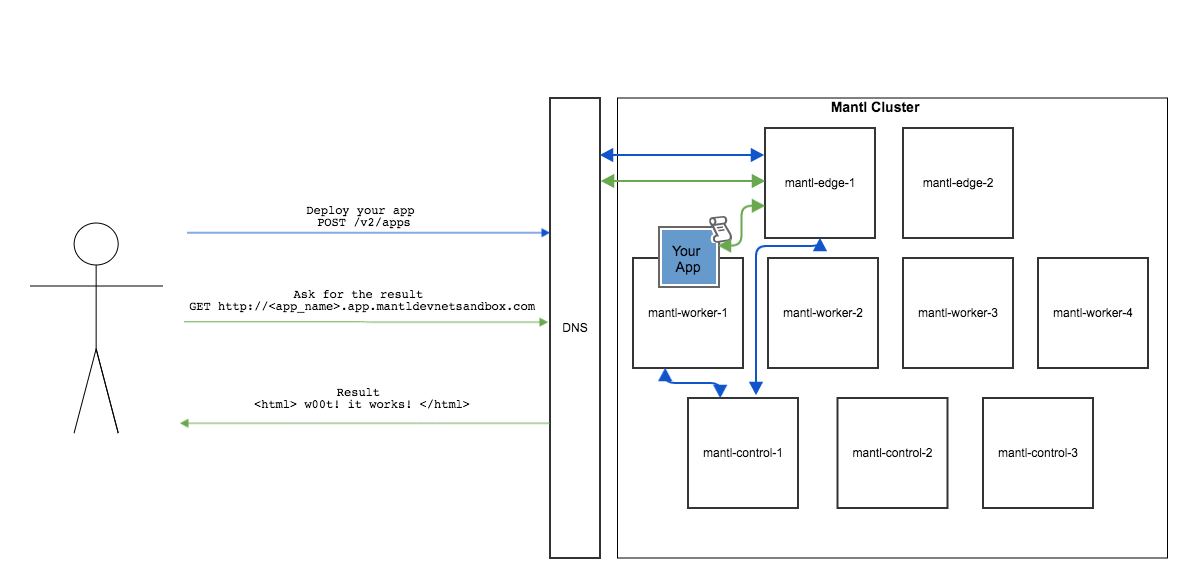
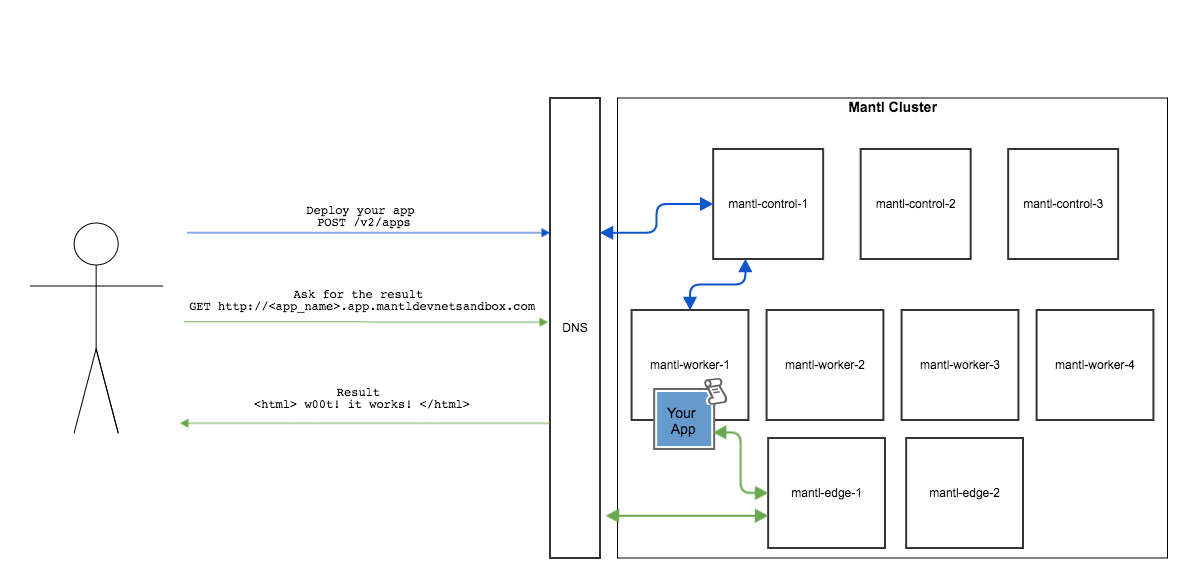
Updates based on Ben's feedback

diff --git a/labs/mantl-app/1.md b/labs/mantl-app/1.md
@@ -38,5 +38,5 @@ In this tutorial, you will follow similar actions for each scenario.  This diagr
 On the right-hand side (on the other side of the DNS box), observe how the traffic flows through the system and where your app actually runs in the cluster.  Although not called out on the diagram, your app is actually orchestrated by Marathon and Mesos and runs on a "worker" role server.  Marathon uses the underlying Mesos cluster manager to allocate the resources for your app.  The edge nodes use a reverse-proxy, Traefik, to provide a single URL to access your application.
 
 The lines are color coded to indicate the path of the request when we create the app as compared to when we are viewing the running app.  
-* The blue lines shows the creation path, and the edge node directs traffic to the control nodes, where Marathon is running.  The control nodes then "install" your app onto a worker.
+* The blue lines shows the creation path using the control nodes.  This is where Marathon, and therefore the Marathon API, is running.  The control nodes "install" your app onto a worker.
 * The green lines show the "end user" path, and the edge node directs traffic directly to your app.
